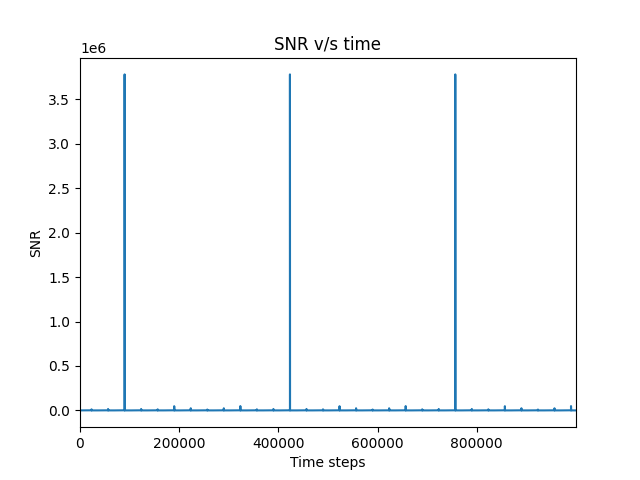
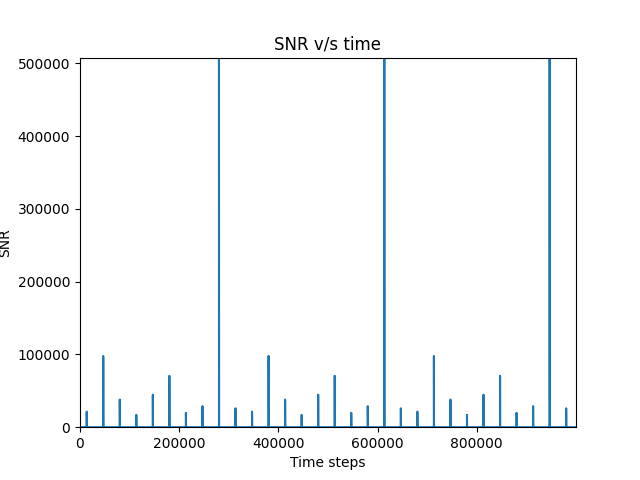
Improved axis labeling for Q2
On branch main
Your branch is up to date with 'origin/main'.

Changes to be committed:
	new file:   Q2/10.png
	modified:   Q2/100.png
	deleted:    Q2/1000.png
	modified:   Q2/main.py

diff --git a/Q2/main.py b/Q2/main.py
@@ -44,7 +44,7 @@ def main():
     plt.ylabel("SNR")
     plt.title("SNR v/s time")
     plt.plot(snr)
-    plt.gca().autoscale(enable=True, axis='x', tight=True)
+    plt.gca().autoscale(enable=True, axis='both', tight=True)
     plt.savefig(str(num) + ".png")
 
 if __name__ == "__main__":
